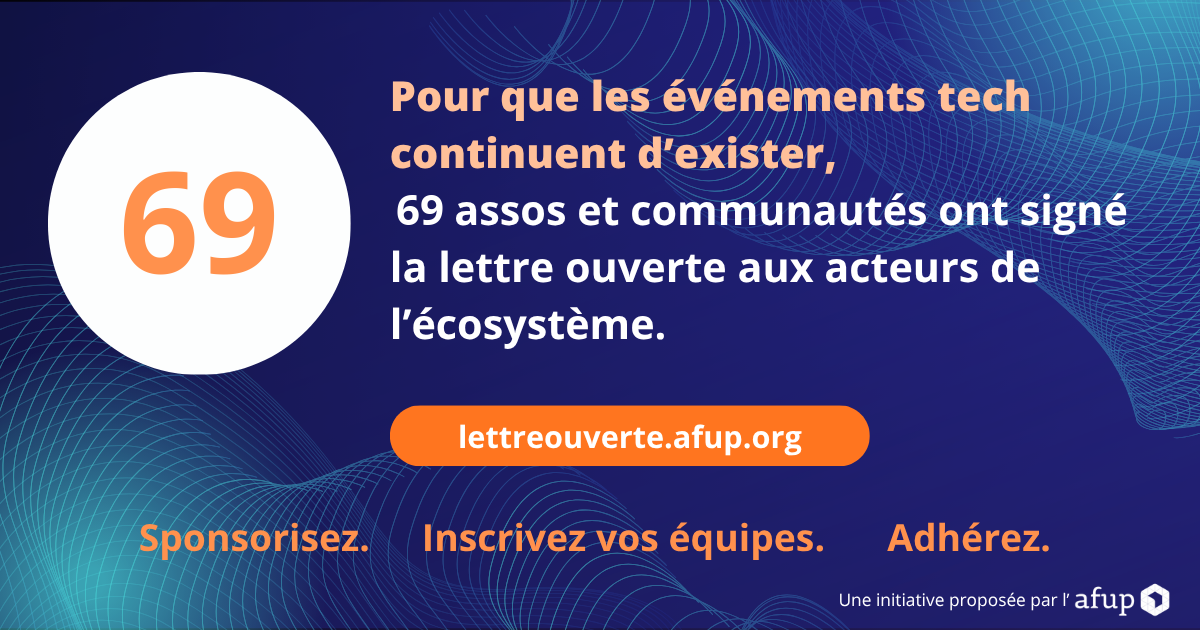
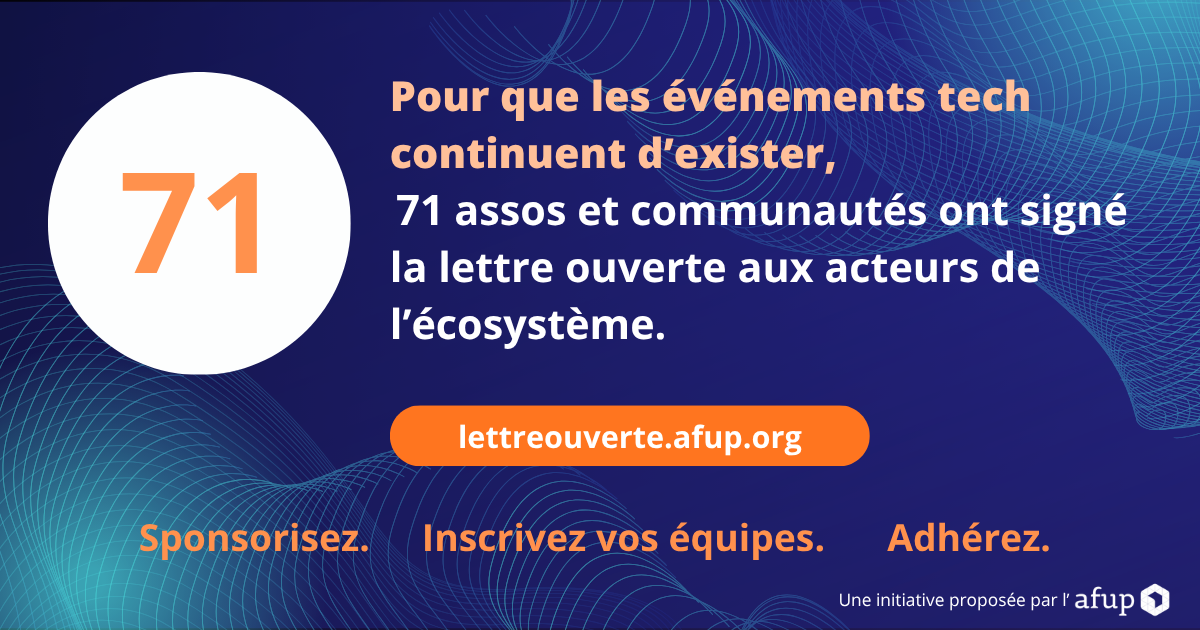
Ajoute MatomoCamp et Le Bik'Lab

Changed region(s): [[0.0925, 0.2714, 0.2467, 0.4524], [0.3083, 0.3016, 0.37, 0.3619]]

diff --git a/index.html b/index.html
@@ -409,7 +409,7 @@ p a:not(.logo):hover,.footer__nav a:hover{color:var(--orange-hover);border-botto
   <div class="rule signatories__head">
     <div>
       <span class="eyebrow">Signataires</span>
-      <h2 id="signataires-titre"><span class="signatories__count">69</span> organisations ont déjà signé</h2>
+      <h2 id="signataires-titre"><span class="signatories__count">71</span> organisations ont déjà signé</h2>
     </div>
     <p class="signatories__invite">Votre organisation veut apparaître ici&nbsp;? Écrivez-nous à <a href="mailto:lettreouverte@afup.org">lettreouverte@afup.org</a>.</p>
   </div>
@@ -457,8 +457,10 @@ p a:not(.logo):hover,.footer__nav a:hover{color:var(--orange-hover);border-botto
     <li class="sig"><a class="sig__inner" href="https://keikenchiba.org/" target="_blank" rel="noopener"><span class="sig__mark"><span class="sig__logo"><img src="assets/logos/keikenchiba.png" alt="Logo de Keikenchiba" loading="lazy" decoding="async"><span class="sig__new" title="Nouveau signataire"><span>new</span></span></span></span><span class="sig__name">Keikenchiba</span></a></li>
     <li class="sig"><a class="sig__inner" href="https://www.linkedin.com/company/la-qualisphere-grenoble/" target="_blank" rel="noopener"><span class="sig__mark"><span class="sig__logo"><img src="assets/logos/la-qualisphere.png" alt="Logo de La Qualisphere" loading="lazy" decoding="async"><span class="sig__new" title="Nouveau signataire"><span>new</span></span></span></span><span class="sig__name">La Qualisphere</span></a></li>
     <li class="sig"><a class="sig__inner" href="https://www.lavajug.org/" target="_blank" rel="noopener"><span class="sig__mark"><span class="sig__logo"><img src="assets/logos/lavajug.png" alt="Logo de LavaJUG" loading="lazy" decoding="async"></span></span><span class="sig__name">LavaJUG</span></a></li>
+    <li class="sig"><a class="sig__inner" href="https://www.lebiklab.fr/" target="_blank" rel="noopener"><span class="sig__mark"><span class="sig__logo"><img src="assets/logos/le-biklab.png" alt="Logo de Le Bik’Lab" loading="lazy" decoding="async"><span class="sig__new" title="Nouveau signataire"><span>new</span></span></span></span><span class="sig__name">Le Bik’Lab</span></a></li>
     <li class="sig"><a class="sig__inner" href="https://www.lyonjs.org/" target="_blank" rel="noopener"><span class="sig__mark"><span class="sig__logo"><img src="assets/logos/lyonjs.svg" alt="Logo de LyonJS" loading="lazy" decoding="async"></span></span><span class="sig__name">LyonJS</span></a></li>
     <li class="sig"><a class="sig__inner" href="https://www.lyontechhub.org/" target="_blank" rel="noopener"><span class="sig__mark"><span class="sig__logo"><img src="assets/logos/lyontechhub.png" alt="Logo de LyonTechHub" loading="lazy" decoding="async"><span class="sig__new" title="Nouveau signataire"><span>new</span></span></span></span><span class="sig__name">LyonTechHub</span></a></li>
+    <li class="sig"><a class="sig__inner" href="https://matomocamp.org/" target="_blank" rel="noopener"><span class="sig__mark"><span class="sig__logo"><img src="assets/logos/matomocamp.svg" alt="Logo de MatomoCamp" loading="lazy" decoding="async"><span class="sig__new" title="Nouveau signataire"><span>new</span></span></span></span><span class="sig__name">MatomoCamp</span></a></li>
     <li class="sig"><a class="sig__inner" href="https://mixitconf.org/" target="_blank" rel="noopener"><span class="sig__mark"><span class="sig__logo"><img src="assets/logos/mixit.svg" alt="Logo de Mixit" loading="lazy" decoding="async"></span></span><span class="sig__name">Mixit</span></a></li>
     <li class="sig"><span class="sig__inner"><span class="sig__mark"><span class="sig__logo"><img src="assets/logos/mobilis-in-mobile.png" alt="Logo de Mobilis In Mobile" loading="lazy" decoding="async"><span class="sig__new" title="Nouveau signataire"><span>new</span></span></span></span><span class="sig__name">Mobilis In Mobile</span></span></li>
     <li class="sig"><a class="sig__inner" href="https://www.meetup.com/mongodb-usergroup-paris" target="_blank" rel="noopener"><span class="sig__mark"><span class="sig__logo"><img src="assets/logos/mongodb-user-group.png" alt="Logo du MongoDB User Group" loading="lazy" decoding="async"><span class="sig__new" title="Nouveau signataire"><span>new</span></span></span></span><span class="sig__name">MongoDB User Group</span></a></li>
@@ -646,7 +648,7 @@ p a:not(.logo):hover,.footer__nav a:hover{color:var(--orange-hover);border-botto
       "description": "Les événements techniques français traversent une crise silencieuse. Sponsorisez, achetez des places, adhérez : trois gestes pour qu’ils continuent d’exister.",
       "inLanguage": "fr-FR",
       "datePublished": "2026-09-02T08:00:00+02:00",
-      "dateModified": "2026-09-25T14:19:00+02:00",
+      "dateModified": "2026-09-28T14:48:00+02:00",
       "isAccessibleForFree": true,
       "mainEntityOfPage": {
         "@id": "https://lettreouverte.afup.org/#webpage"
@@ -956,6 +958,12 @@ p a:not(.logo):hover,.footer__nav a:hover{color:var(--orange-hover);border-botto
         },
         {
           "@id": "https://lettreouverte.afup.org/#org-wpfr"
+        },
+        {
+          "@id": "https://lettreouverte.afup.org/#org-matomocamp"
+        },
+        {
+          "@id": "https://lettreouverte.afup.org/#org-le-biklab"
         }
       ],
       "articleSection": [
@@ -1501,6 +1509,20 @@ p a:not(.logo):hover,.footer__nav a:hover{color:var(--orange-hover);border-botto
       "name": "Communauté WordPress Francophone",
       "url": "https://wpfr.net/",
       "logo": "https://lettreouverte.afup.org/assets/logos/wpfr.svg"
+    },
+    {
+      "@type": "Organization",
+      "@id": "https://lettreouverte.afup.org/#org-matomocamp",
+      "name": "MatomoCamp",
+      "url": "https://matomocamp.org/",
+      "logo": "https://lettreouverte.afup.org/assets/logos/matomocamp.svg"
+    },
+    {
+      "@type": "Organization",
+      "@id": "https://lettreouverte.afup.org/#org-le-biklab",
+      "name": "Le Bik’Lab",
+      "url": "https://www.lebiklab.fr/",
+      "logo": "https://lettreouverte.afup.org/assets/logos/le-biklab.png"
     }
   ]
 }</script>
